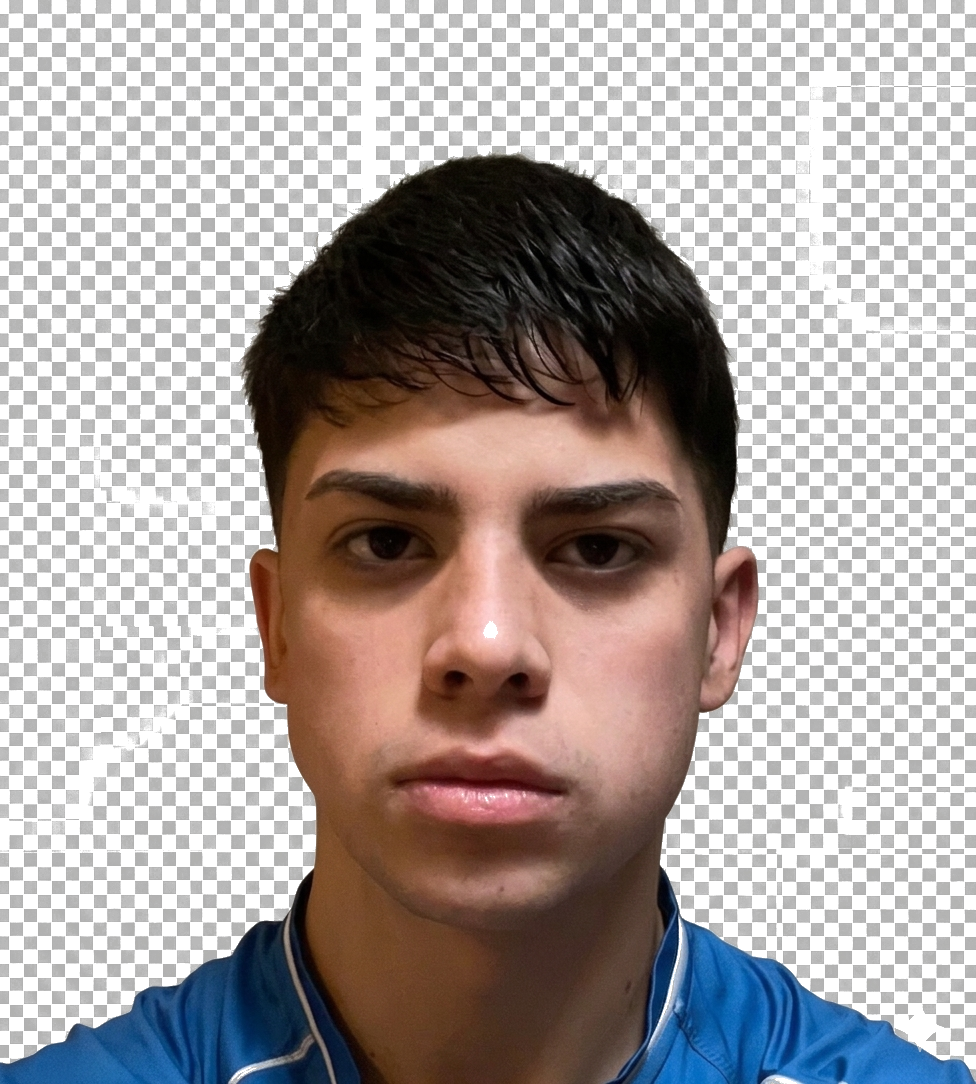
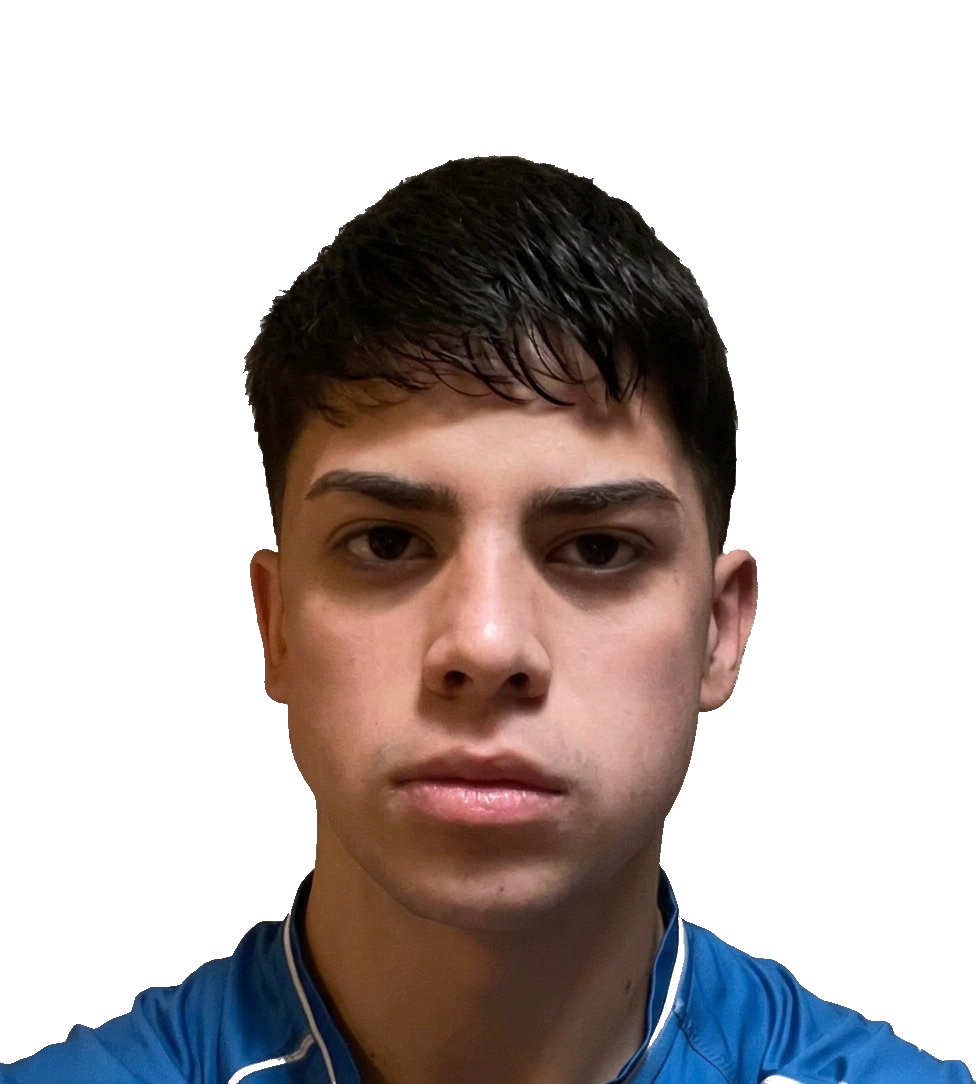
Quitar damero y halo blanco del fondo de la foto del hero.

Changed region(s): [[0.0, 0.0, 1.0, 1.0], [0.2459, 0.9742, 0.3074, 1.0], [0.7684, 0.9742, 0.7992, 1.0]]

diff --git a/index.html b/index.html
@@ -121,7 +121,7 @@
         </div>
         <div class="hero-image-wrapper">
           <div class="hero-image-3d">
-            <img src="Gemini_Generated_Image_tfpydktfpydktfpy.png?v=2" alt="Adrián Fredes" class="hero-photo" decoding="async" fetchpriority="high">
+            <img src="Gemini_Generated_Image_tfpydktfpydktfpy.png?v=3" alt="Adrián Fredes" class="hero-photo" decoding="async" fetchpriority="high">
           </div>
         </div>
       </div>
